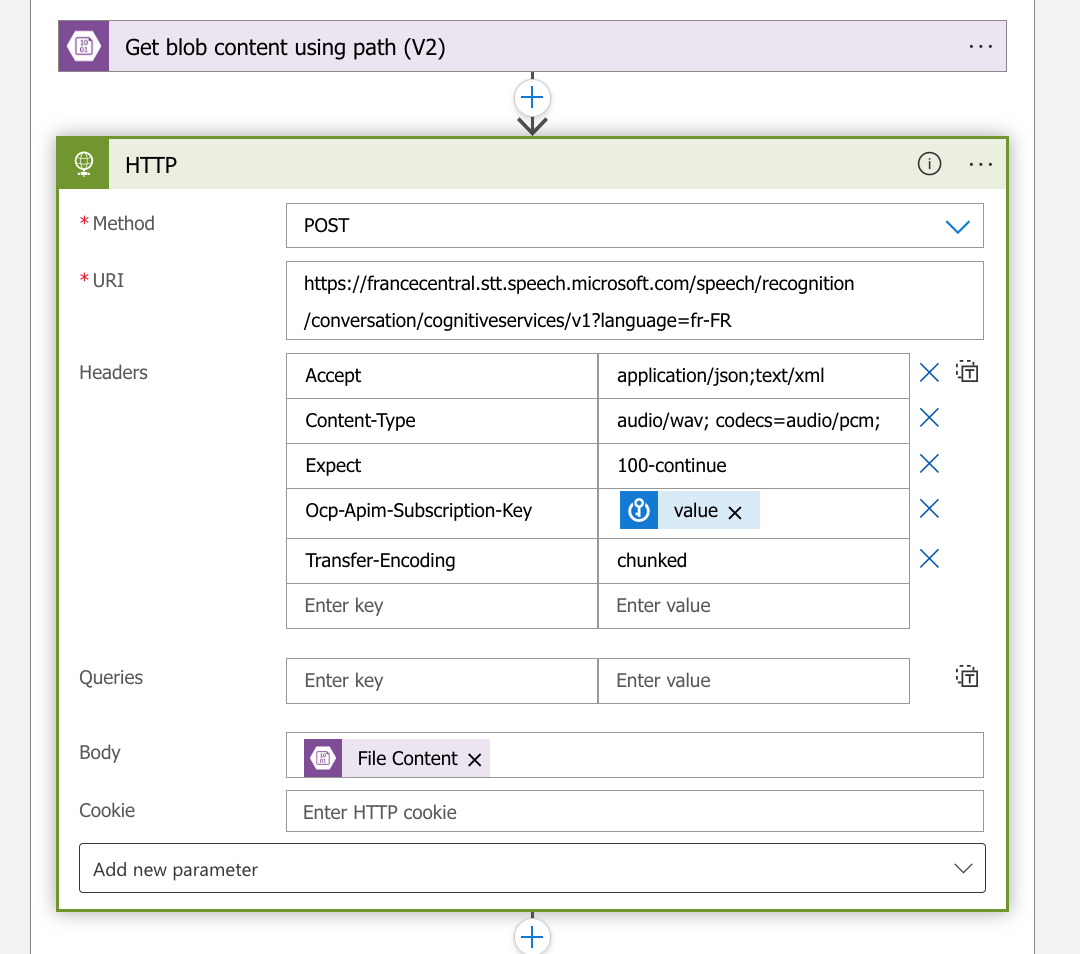
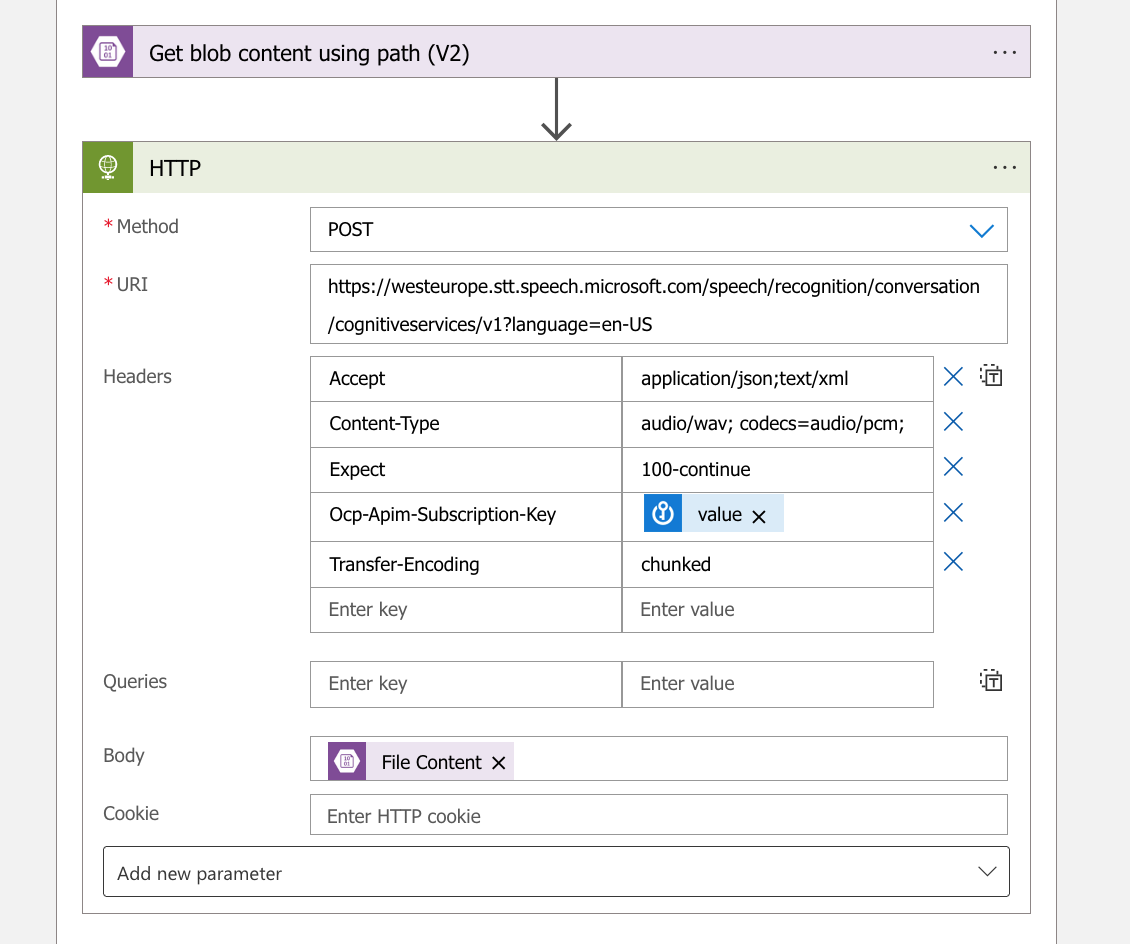
feat: Add cognitive service HTTP call

Changed region(s): [[0.0306, 0.0, 0.9472, 1.0]]

diff --git a/workshops/serverless-overview/workshop.md b/workshops/serverless-overview/workshop.md
@@ -426,8 +426,8 @@ With the trigger ready, you need to extract the audios blob path and prepare it 
 
 <div class="task" data-title="Resources">
 
-> [Logic Apps Consumption mode][logic-app]<br>
-> [Logic App Storage Account Action][logic-app-storage-action]
+> [Logic Apps Consumption mode][logic-app] <br>
+> [Logic App Storage Account Action][logic-app-storage-action] <br>
 
 </div>
 
@@ -477,7 +477,7 @@ The naming conventions are:
 - Cognitive services: `cog-<environment>-<region>-<application-name>-<owner>-<instance>`
 - Key Vault: `kv-<environment>-<region>-<application-name>-<owner>-<instance>`
 
-<div class="info" data-title="Resources">
+<div class="task" data-title="Resources">
 
 > [Cognitive service][cognitive-service] <br>
 > [Key Vault][key-vault] <br>
@@ -485,7 +485,7 @@ The naming conventions are:
 
 </div>
 
-[cognitive-service]:
+[cognitive-service]:https://learn.microsoft.com/en-us/cli/azure/cognitiveservices/account?view=azure-cli-latest
 [key-vault]: https://learn.microsoft.com/fr-fr/cli/azure/keyvault?view=azure-cli-latest
 [cognitive-service-api]:https://learn.microsoft.com/en-us/azure/cognitive-services/speech-service/get-started-speech-to-text?tabs=macos%2Cterminal&pivots=programming-language-rest
 
@@ -527,11 +527,20 @@ With that ready, add a new action in the for loop by searching for `Http`, then 
 
 ![Logic App HTTP Action](assets/logic-app-http-action.png)
 
-Upload the audio file and you should see the content as a text.
+Notice the region of your cognntive service account and the language to use is specified in the url.
+
+Finally as you need previously, upload the audio file and you should see the content as a text.
 
 </details>
 
 ### Store data to Cosmos Db
+
+{
+  "RecognitionStatus": "Success",
+  "Offset": 12000000,
+  "Duration": 89200000,
+  "DisplayText": "But also see that this bullheads and labs serverless."
+}
 
 With the audio transformed to text, you will have to store it in a NoSQL database inside Cosmos Db:
 - Database info: `HolDb`
@@ -585,7 +594,6 @@ Give a try and fortunately, you will see a new item in your Cosmos Db!
 
 
 Download file
-Link display
 
 
 
